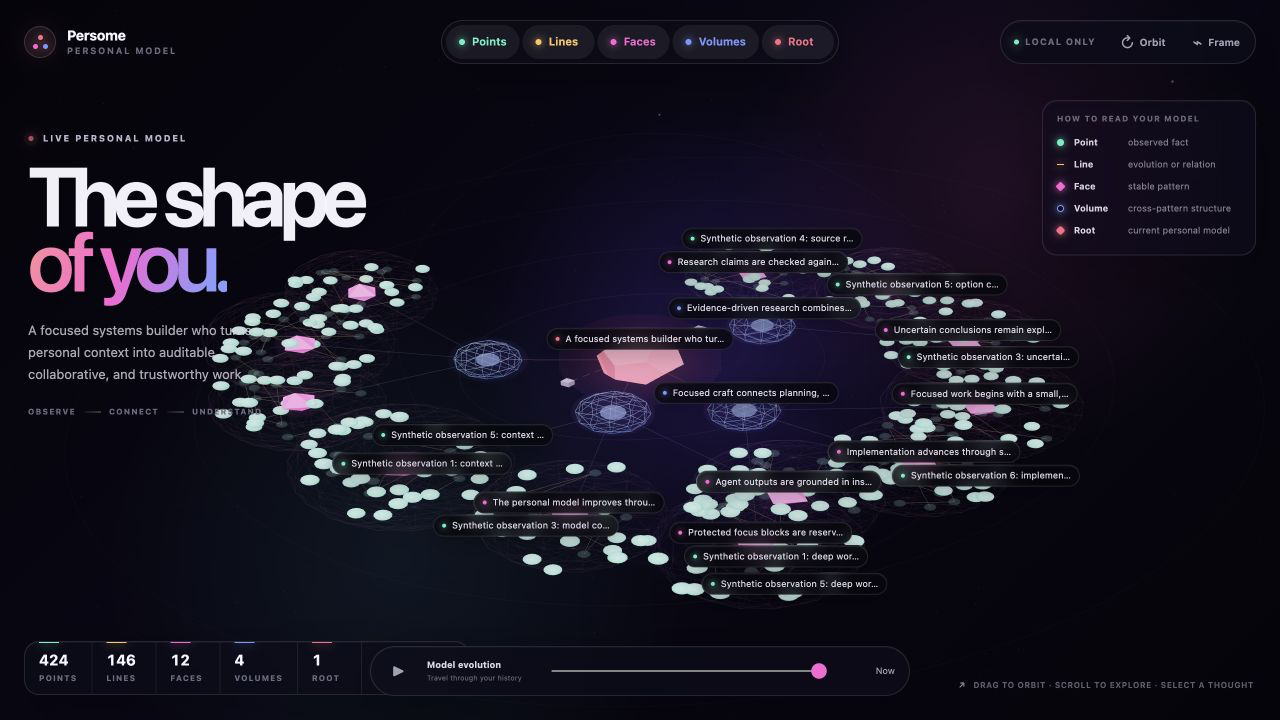
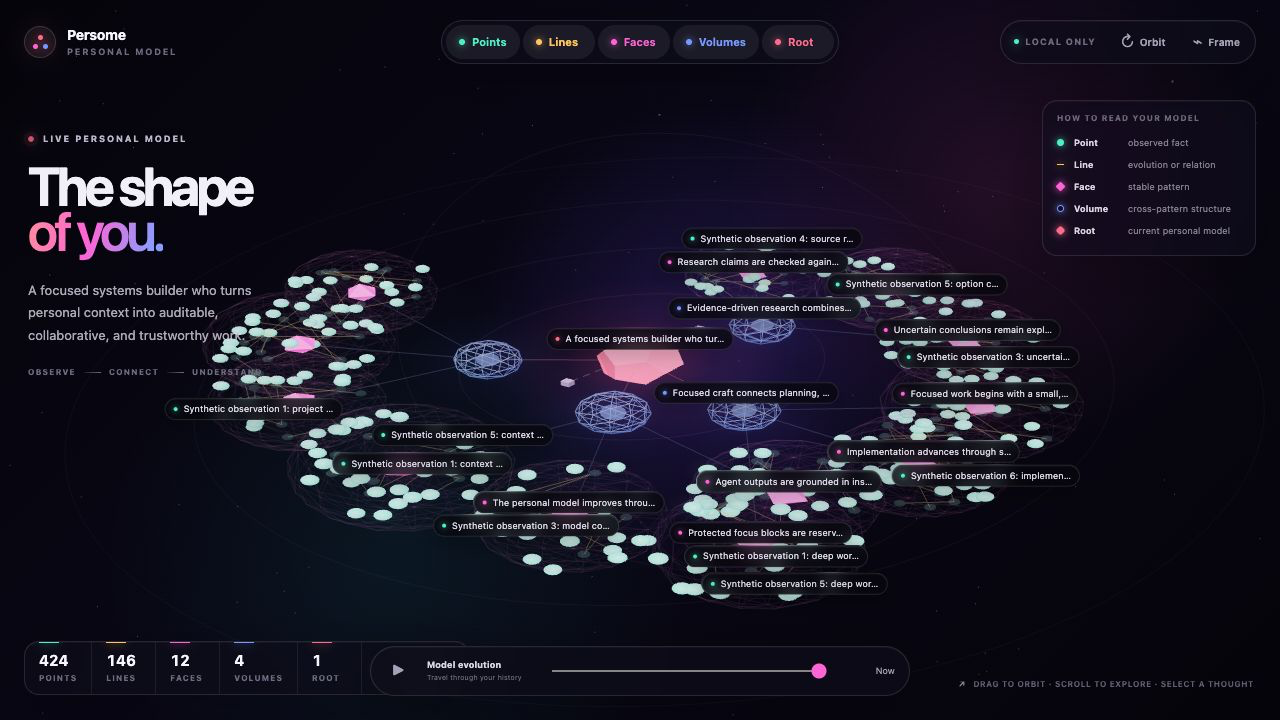
fix: rebalance model viewer typography

diff --git a/resources/model_assets/viewer.css b/resources/model_assets/viewer.css
@@ -324,10 +324,10 @@ button {
 .story h1 {
   margin: 0;
   color: rgba(249, 247, 255, 0.97);
-  font-size: clamp(54px, 6.5vw, 94px);
+  font-size: clamp(36px, 4.2vw, 60px);
   font-weight: 660;
-  letter-spacing: -0.075em;
-  line-height: 0.78;
+  letter-spacing: -0.065em;
+  line-height: 0.84;
   text-wrap: balance;
 }
 
@@ -341,12 +341,16 @@ button {
 }
 
 .model-identity {
+  display: -webkit-box;
   max-width: 310px;
   margin: 26px 0 0;
+  overflow: hidden;
   color: rgba(218, 213, 229, 0.78);
   font-size: 13px;
   line-height: 1.7;
   text-wrap: balance;
+  -webkit-box-orient: vertical;
+  -webkit-line-clamp: 5;
 }
 
 .model-flow {
@@ -859,7 +863,7 @@ button {
   }
 
   .story h1 {
-    font-size: 44px;
+    font-size: 32px;
   }
 
   .model-identity {
@@ -951,7 +955,7 @@ button {
   }
 
   .story h1 {
-    font-size: 37px;
+    font-size: 29px;
   }
 
   .model-identity {